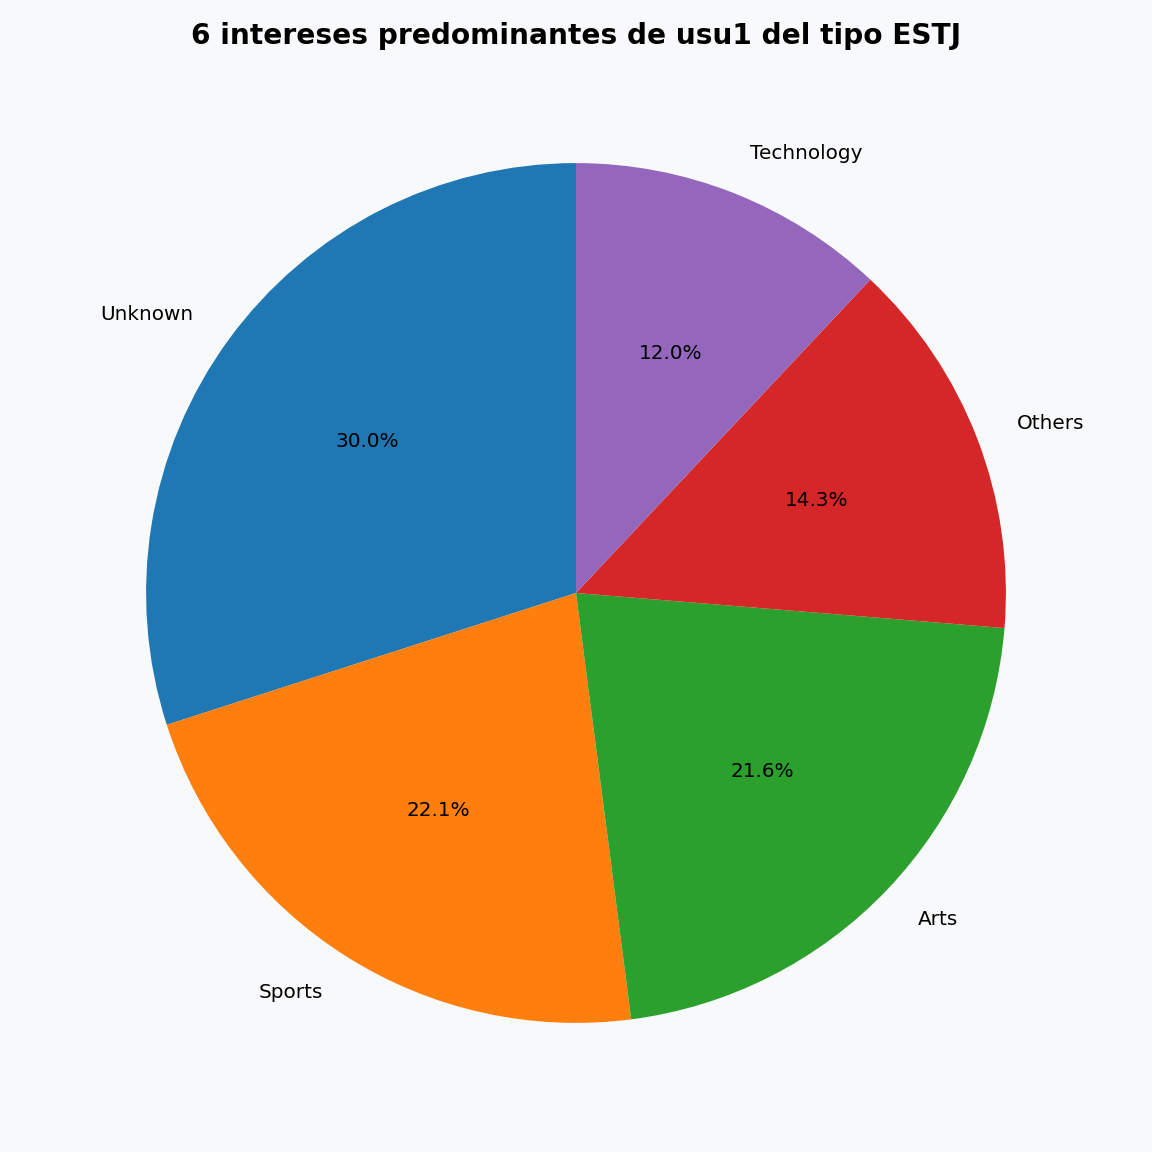
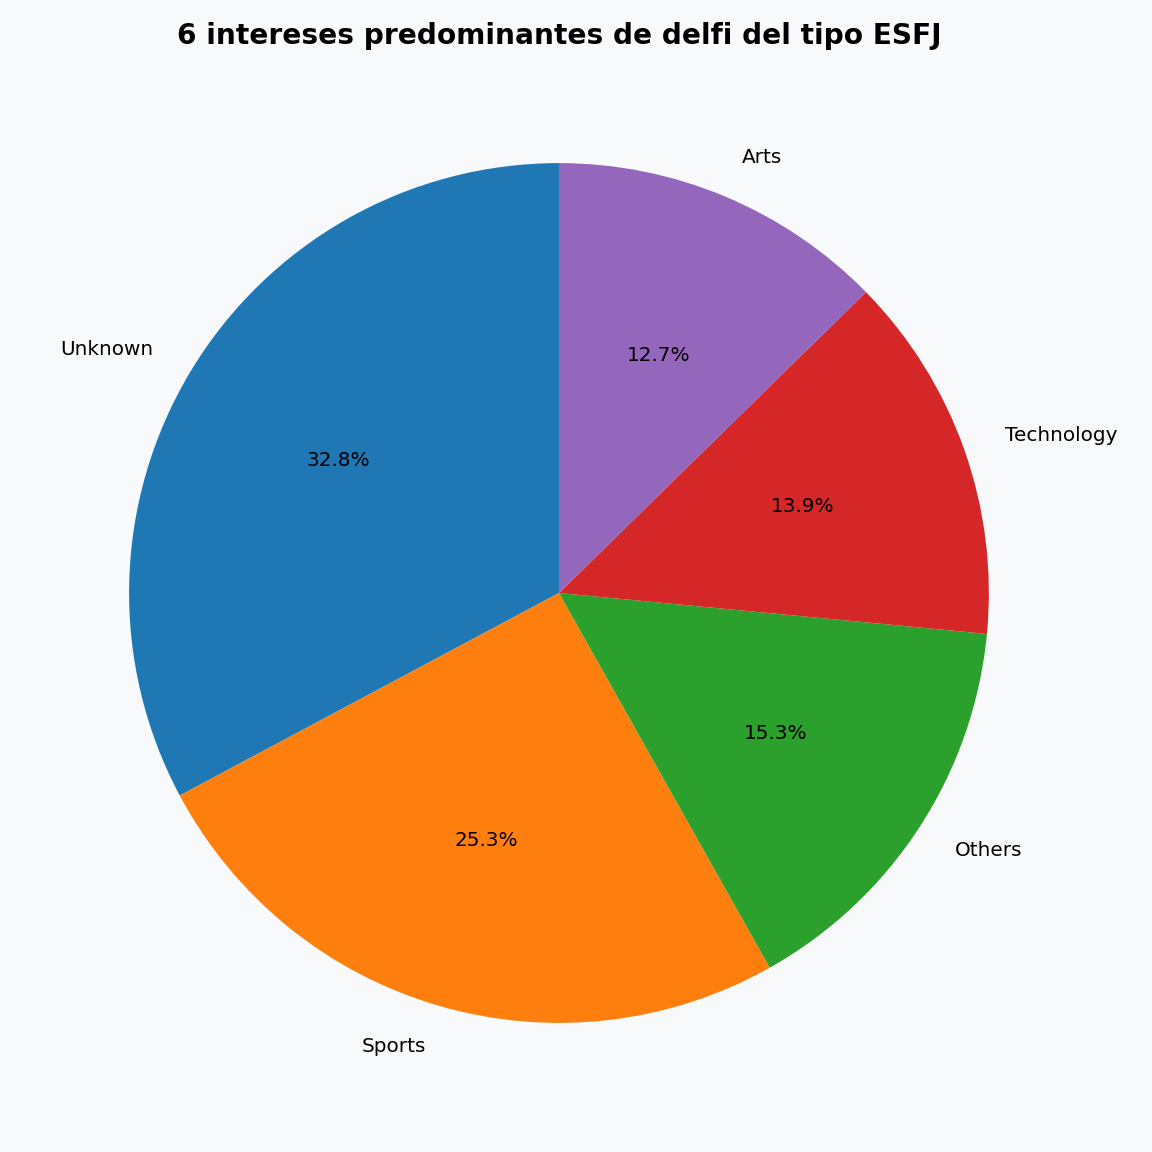
borramos un par de funciones

diff --git a/src/analisis_dataset.py b/src/analisis_dataset.py
@@ -7,29 +7,11 @@ y no representan poblaciones clínicas reales.
 Responsabilidades:
 - Calcular distribución de tipos MBTI en el dataset
 - Identificar intereses predominantes por tipo
-- Calcular promedios de scores por tipo
 - Determinar rareza/frecuencia del perfil del usuario
 - Comparar usuario contra promedio del grupo
 """
 
 import pandas as pd
-
-
-def calcular_distribucion_mbti(df):
-    """
-    Calcula la distribución porcentual de tipos MBTI en el dataset.
-
-    Parámetros:
-        df (pd.DataFrame): Dataset MBTI limpio.
-
-    Retorna:
-        distribucion_pct(pd.Series) : Porcentaje de cada tipo MBTI, ordenado de mayor a menor.
-    """
-    total = len(df)
-    distribucion = df['Personality'].value_counts()
-    distribucion_pct = (distribucion / total * 100).round(2)
-    return distribucion_pct
-
 
 def intereses_predominantes(df, tipo): #un grafico intereante seria una nube de palabras
     """
@@ -58,57 +40,6 @@ def intereses_predominantes(df, tipo): #un grafico intereante seria una nube de 
     return intereses_pct
 
 
-def calcular_promedios_por_tipo(datos_mbti, tipo_mbti):
-    """
-    Calcula los puntajes promedio de las dimensiones MBTI para un tipo de personalidad específico.
-
-    Parámetros:
-        datos_mbti (pd.DataFrame):
-            DataFrame que contiene la información del dataset.
-
-        tipo_mbti (str):
-            Tipo MBTI que se desea analizar.
-            Ejemplos: "ENFP", "INTJ", "ENTP".
-
-    Retorna:
-        dict:
-            Diccionario con los promedios de cada dimensión.
-
-            Ejemplo:
-            {
-                "Introversion": 6.42,
-                "Sensing": 4.81,
-                "Thinking": 7.23,
-                "Judging": 5.94
-            }
-
-        None:
-            Si el tipo MBTI no existe en el dataset.
-    """
-
-    columnas_scores = {
-        "Introversion Score": "Introversion",
-        "Sensing Score": "Sensing",
-        "Thinking Score": "Thinking",
-        "Judging Score": "Judging"
-    }
-
-    personas_del_tipo = datos_mbti[
-        datos_mbti["Personality"] == tipo_mbti
-    ]
-
-    if len(personas_del_tipo) == 0:
-        return None
-
-    promedios = {}
-
-    for columna_original, nombre_dimension in columnas_scores.items():
-
-        if columna_original in datos_mbti.columns:
-
-            promedios[nombre_dimension] = round(personas_del_tipo[columna_original].mean(), 2)
-
-    return promedios
 
 def calcular_rareza(datos_mbti, tipo_mbti):
     """

diff --git a/programa_principal.py b/programa_principal.py
@@ -9,9 +9,7 @@ from src.preguntas import obtener_preguntas
 from src.validaciones import validar_edad, validar_genero, validar_respuesta
 from src.metricas import calcular_scores, calcular_afinidades, determinar_tipo_mbti
 from src.analisis_dataset import (
-    calcular_distribucion_mbti,
     intereses_predominantes,
-    calcular_promedios_por_tipo,
     calcular_rareza,
     comparar_usuario_vs_grupo,
     calcular_genero_por_tipo
@@ -96,9 +94,7 @@ Usá este sistema como una experiencia lúdica y reflexiva, no como un diagnóst
     tipo_predominante = determinar_tipo_mbti(scores)
     
     # --- ANÁLISIS COMPARATIVO ---
-    distribucion = None
     intereses = None
-    promedios = None
     rareza = None
     comparacion = None
     
@@ -107,14 +103,8 @@ Usá este sistema como una experiencia lúdica y reflexiva, no como un diagnóst
     
         try:
 
-            distribucion = calcular_distribucion_mbti(df)
-
             intereses = intereses_predominantes(df, tipo_predominante)
-
-            promedios = calcular_promedios_por_tipo(df, tipo_predominante)
-            
-            promedios = calcular_promedios_por_tipo(df, tipo_predominante)
-            
+                        
             rareza = calcular_rareza(df, tipo_predominante)
 
             comparacion = comparar_usuario_vs_grupo(df, tipo_predominante, scores)
@@ -132,7 +122,6 @@ Usá este sistema como una experiencia lúdica y reflexiva, no como un diagnóst
         tipo=tipo_predominante,
         afinidades=afinidades,
         scores=scores,
-        distribucion=distribucion,
         intereses=intereses,
         rareza=rareza,
         comparacion=comparacion 

diff --git a/src/resultados.py b/src/resultados.py
@@ -32,7 +32,7 @@ descripciones_tipos = {
 }
 
 
-def mostrar_resultados_finales(nombre, tipo, afinidades, scores, distribucion=None, intereses=None, rareza=None, comparacion=None):
+def mostrar_resultados_finales(nombre, tipo, afinidades, scores, intereses=None, rareza=None, comparacion=None):
     """
     Muestra el resumen completo de resultados en la consola.
 
@@ -89,6 +89,25 @@ def mostrar_resultados_finales(nombre, tipo, afinidades, scores, distribucion=No
         else:
             marca= ""
         print(f"  {i}. {t}: {pct:.1f}%{marca}")
+        
+    if comparacion is not None:
+
+        print(f"\nCOMPARACIÓN CON EL PROMEDIO DEL TIPO {tipo}")
+
+        nombres_dimensiones = {
+            "EI": "Extroversión / Introversión",
+            "SN": "Sensorial / Intuitivo",
+            "TF": "Pensamiento / Sentimiento",
+            "JP": "Juzgador / Perceptivo"
+            }
+
+        for dimension, datos in comparacion.items():
+            
+            nombre = nombres_dimensiones.get(dimension, dimension)
+
+            print(f"\n{nombre}")
+            print(f"  Tu score: {datos['usuario']}")
+            print(f"  Promedio del grupo: {datos['promedio_grupo']}")
     
     if rareza is not None:
         print("\n TU PERFIL EN EL DATASET")

diff --git a/src/graficos.py b/src/graficos.py
@@ -5,7 +5,7 @@ Módulo que genera los gráficos del sistema MBTI.
     - Gráfico 2: Torta de los 6 intereses predominantes para el tipo MBTI
 """
 import matplotlib.pyplot as plt
-from src.analisis_dataset import intereses_predominantes, calcular_distribucion_mbti, calcular_genero_por_tipo
+from src.analisis_dataset import intereses_predominantes, calcular_genero_por_tipo
 
 
 
